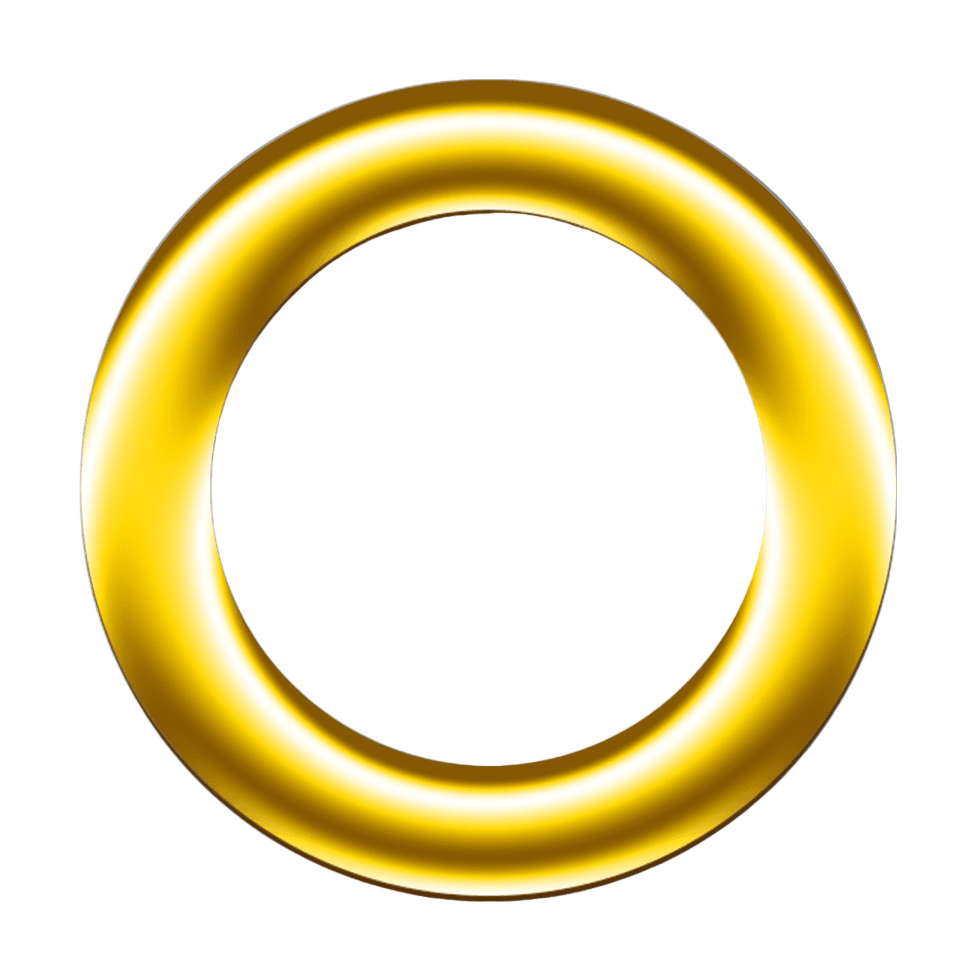
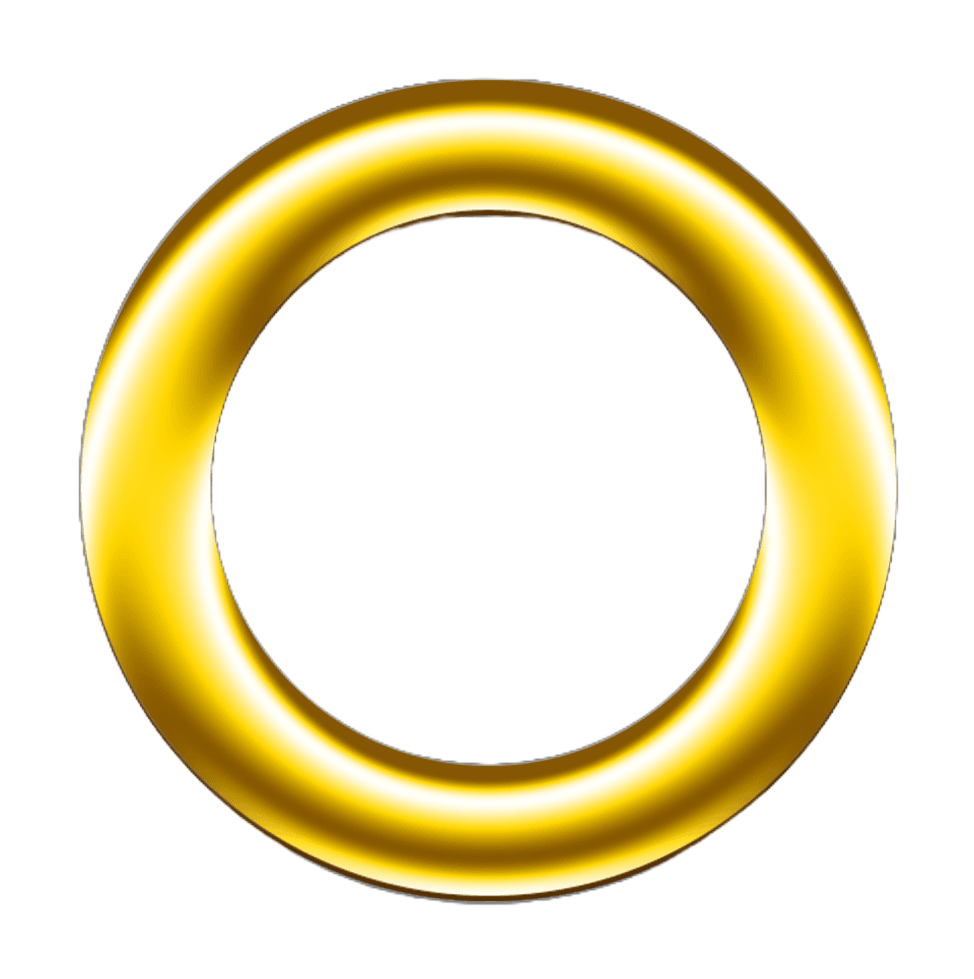
Finalized platformer game

diff --git a/fsd-projects/platformer/setup.js b/fsd-projects/platformer/setup.js
@@ -102,5 +102,5 @@ var collectableList = {
   kennedi: { image: "images/collectables/kennedi-head.png" },
   max: { image: "images/collectables/max-head.png" },
   steve: { image: "images/collectables/steve-head.png" },
-  ring: { image "images/collectables/ring2.png" },
+  ring: { image: "images/collectables/ring2.png" }
 };

diff --git a/fsd-projects/platformer/platformer.js b/fsd-projects/platformer/platformer.js
@@ -51,7 +51,7 @@ $(function () {
 
 
     // TODO 3 - Create Collectables
-        createCollectable("ring", 310, 230);
+        createCollectable("ring", 310, 200);
         createCollectable("ring", 750, 250);
         createCollectable("ring", 1350, 500);
         createCollectable("ring", 210, 700);
